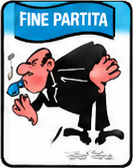
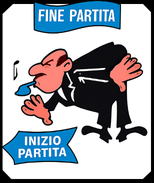
modified start box image

diff --git a/src/main/java/giocoscudetto/model/impl/StartBox.java b/src/main/java/giocoscudetto/model/impl/StartBox.java
@@ -11,7 +11,7 @@ public class StartBox implements Boxes{
 
     public StartBox(final int position) {
         this.position = position;
-        this.image = "caselle_precise/casella_32.png";
+        this.image = "caselle_precise/casella_31.png";
     }
 
     @Override
